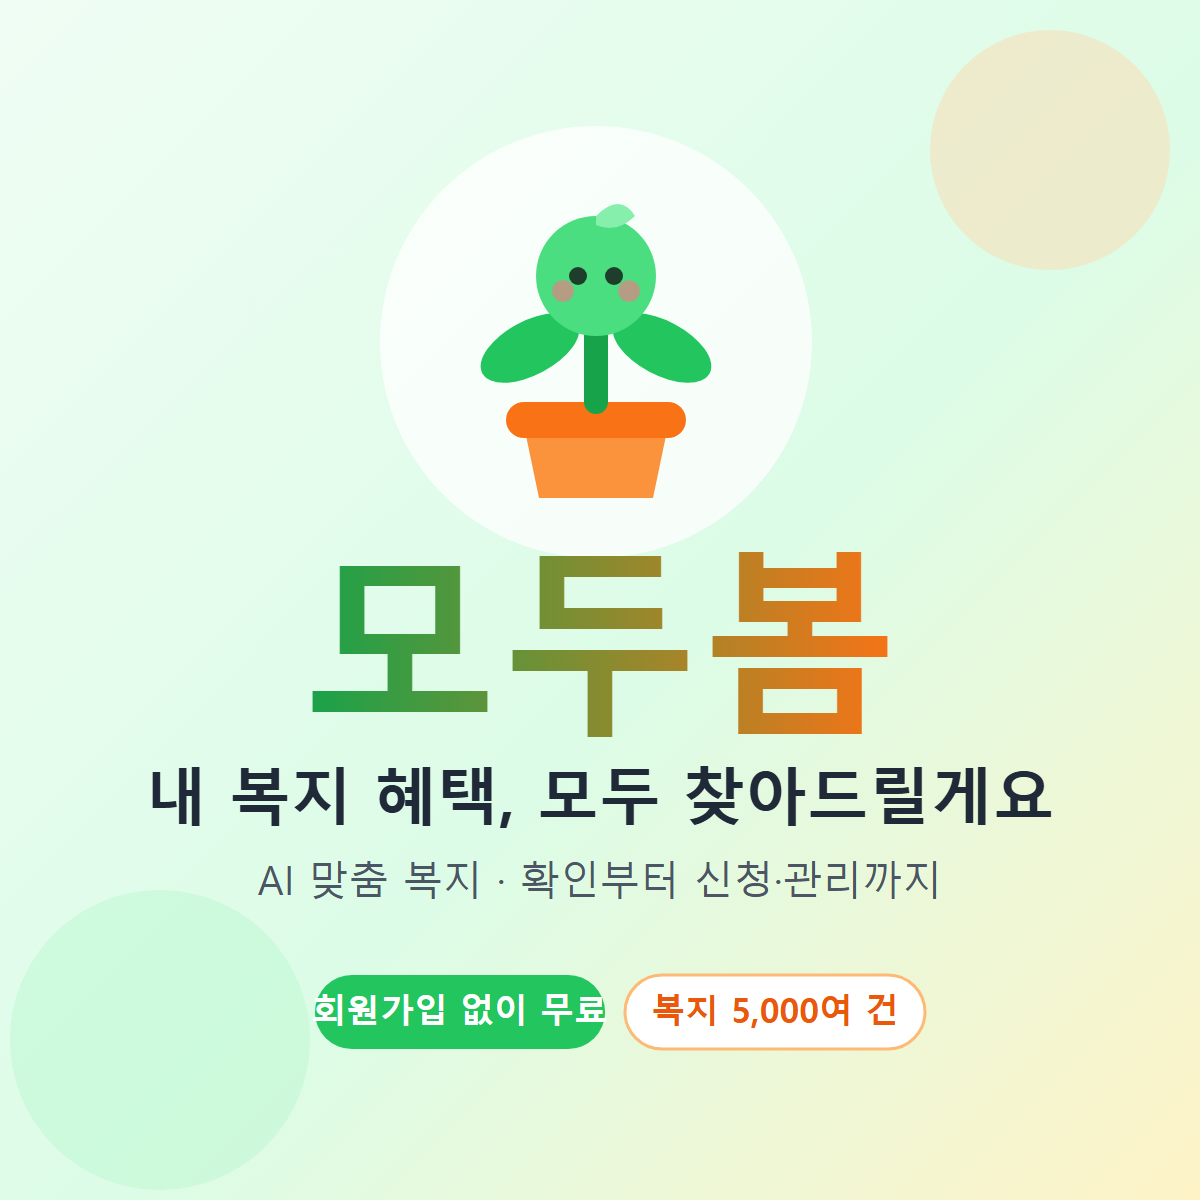
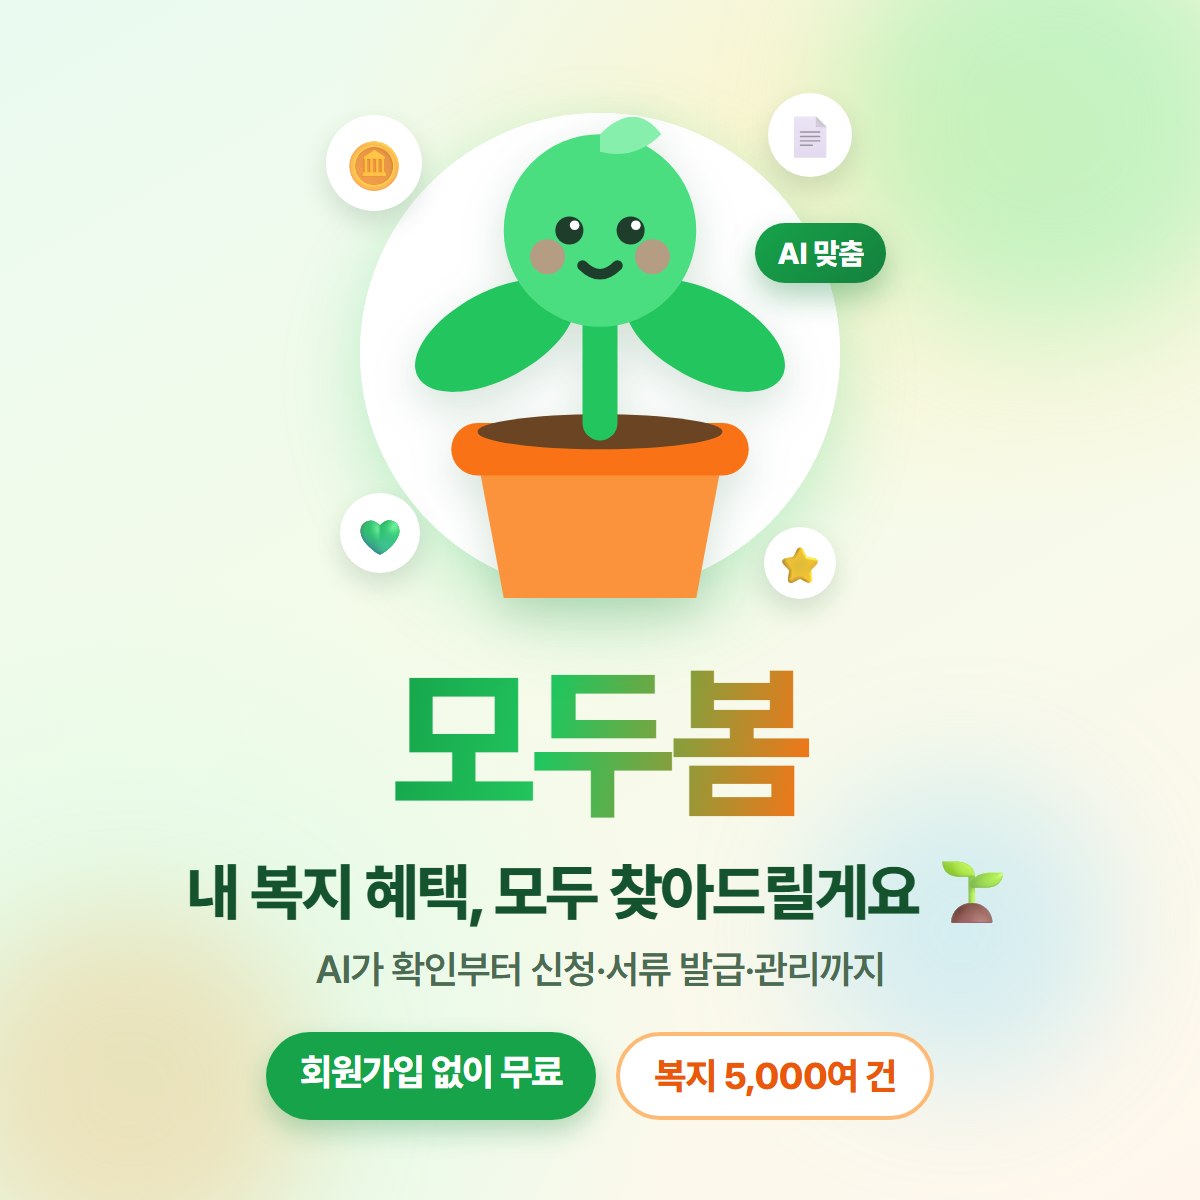
feat(frontend): 공유 배너 새싹이 리뉴얼 + 챗 에이전트 생동감
- og.png(2D 공유 배너)를 앱의 정식 새싹이(SproutLogo) 캐릭터로 재제작: 크고 또렷한
  웃는 새싹이 + 떠다니는 혜택 아이콘(지원금·서류·💚·⭐) + 'AI 맞춤' 배지로 첫인상 강화.
  재현 소스 scripts/og-banner.html + render-og.py(playwright, 1200×1200) 동봉.
- 챗 새싹이를 살아 반응하게: 평소 숨쉬듯 둥실, AI가 답을 찾는 중엔 고개를 갸웃대며
  💭 + 타이핑 점3개로 '생각하는 중' 표현(작은 챗창에 3D 캔버스 대신 캐릭터 반응으로
  에이전트감 부여). reduced-motion이면 애니메이션 없음(접근성).

diff --git a/frontend/scripts/og-banner.html b/frontend/scripts/og-banner.html
@@ -1,0 +1,100 @@
+<!doctype html>
+<html lang="ko">
+<head>
+<meta charset="utf-8" />
+<style>
+  /* 모두봄 공유 배너(OG) — 앱의 정식 새싹이(SproutLogo) 캐릭터를 크고 생동감 있게.
+     1200×1200. 렌더: frontend/scripts/render-og.py (backend venv playwright) */
+  * { margin: 0; padding: 0; box-sizing: border-box; }
+  html, body { width: 1200px; height: 1200px; overflow: hidden; }
+  body {
+    font-family: 'Pretendard', 'Malgun Gothic', 'Apple SD Gothic Neo', sans-serif;
+    background:
+      radial-gradient(1100px 700px at 78% 12%, #fef3c7 0%, rgba(254,243,199,0) 55%),
+      radial-gradient(900px 800px at 12% 88%, #dcfce7 0%, rgba(220,252,231,0) 60%),
+      linear-gradient(150deg, #eafaf0 0%, #f4fbe9 45%, #fff7ed 100%);
+    position: relative;
+  }
+  /* 부드러운 배경 블롭 */
+  .blob { position: absolute; border-radius: 9999px; filter: blur(60px); }
+  .b1 { width: 420px; height: 420px; background: rgba(134,239,172,.45); top: -90px; right: -60px; }
+  .b2 { width: 360px; height: 360px; background: rgba(253,186,116,.38); bottom: -70px; left: -50px; }
+  .b3 { width: 300px; height: 300px; background: rgba(125,211,252,.30); bottom: 120px; right: 90px; }
+
+  .wrap { position: relative; height: 100%; display: flex; flex-direction: column;
+          align-items: center; justify-content: center; text-align: center; padding: 70px; }
+
+  /* 새싹이 무대 — 흰 원 글로우 위에 캐릭터 + 떠다니는 혜택 아이콘 */
+  .stage { position: relative; width: 560px; height: 560px; margin-top: -8px; }
+  .halo { position: absolute; inset: 40px; border-radius: 9999px; background: #ffffff;
+          box-shadow: 0 30px 80px rgba(34,197,94,.22), inset 0 0 0 10px rgba(255,255,255,.9); }
+  .halo::after { content: ''; position: absolute; inset: -26px; border-radius: 9999px;
+          background: radial-gradient(circle, rgba(134,239,172,.55) 0%, rgba(134,239,172,0) 70%); z-index: -1; }
+  .mascot { position: absolute; inset: 0; width: 100%; height: 100%; }
+  .mascot svg { width: 100%; height: 100%; filter: drop-shadow(0 16px 22px rgba(22,101,52,.18)); }
+
+  /* 떠다니는 혜택 요소 — "AI가 내 복지를 찾아준다" 서사 */
+  .float { position: absolute; display: flex; align-items: center; justify-content: center;
+           border-radius: 9999px; background: #fff; box-shadow: 0 12px 26px rgba(16,64,32,.14); }
+  .f-coin { top: 42px; left: 6px; width: 96px; height: 96px; font-size: 50px; }
+  .f-doc  { top: 20px; right: 28px; width: 84px; height: 84px; font-size: 42px; }
+  .f-heart{ bottom: 60px; left: 20px; width: 80px; height: 80px; font-size: 40px; }
+  .f-star { bottom: 34px; right: 44px; width: 72px; height: 72px; font-size: 36px; }
+  .badge-ai { position: absolute; top: 150px; right: -6px; background: linear-gradient(135deg,#16a34a,#15803d);
+           color: #fff; font-weight: 800; font-size: 30px; padding: 12px 22px; border-radius: 9999px;
+           box-shadow: 0 14px 30px rgba(21,128,61,.35); letter-spacing: -.5px; }
+
+  .brand { margin-top: 26px; font-size: 168px; font-weight: 900; letter-spacing: -6px; line-height: 1;
+           background: linear-gradient(100deg,#16a34a 0%, #22c55e 38%, #f97316 100%);
+           -webkit-background-clip: text; background-clip: text; color: transparent; }
+  .tag { margin-top: 20px; font-size: 62px; font-weight: 800; color: #14532d; letter-spacing: -2px; }
+  .sub { margin-top: 16px; font-size: 39px; font-weight: 600; color: #4b6b52; letter-spacing: -1px; }
+
+  .badges { margin-top: 40px; display: flex; gap: 20px; }
+  .pill { font-size: 37px; font-weight: 800; padding: 18px 34px; border-radius: 9999px; letter-spacing: -1px; }
+  .pill-green { background: #16a34a; color: #fff; box-shadow: 0 12px 26px rgba(21,128,61,.28); }
+  .pill-orange { background: #fff; color: #ea580c; border: 4px solid #fdba74; }
+</style>
+</head>
+<body>
+  <div class="blob b1"></div><div class="blob b2"></div><div class="blob b3"></div>
+  <div class="wrap">
+    <div class="stage">
+      <div class="halo"></div>
+      <div class="mascot">
+        <!-- 앱의 정식 새싹이(SproutLogo, withFace)와 동일한 캐릭터 -->
+        <svg viewBox="0 0 64 64" role="img" aria-label="모두봄 새싹 마스코트" fill="none">
+          <path d="M18 44 H46 L43 60 H21 Z" fill="#fb923c" />
+          <rect x="15" y="40" width="34" height="6" rx="3" fill="#f97316" />
+          <ellipse cx="32" cy="41" rx="14" ry="2" fill="#6b4423" />
+          <rect x="30" y="22" width="4" height="20" rx="2" fill="#22c55e" />
+          <ellipse cx="20" cy="30" rx="10" ry="5" transform="rotate(-28 20 30)" fill="#22c55e" />
+          <ellipse cx="44" cy="30" rx="10" ry="5" transform="rotate(28 44 30)" fill="#22c55e" />
+          <circle cx="32" cy="18" r="11" fill="#4ade80" />
+          <path d="M32 7 q4 -4 7 0 q-3 3 -7 2 Z" fill="#86efac" />
+          <circle cx="28.5" cy="18" r="1.6" fill="#1f3d2b" />
+          <circle cx="35.5" cy="18" r="1.6" fill="#1f3d2b" />
+          <circle cx="29.1" cy="17.4" r="0.55" fill="#ffffff" />
+          <circle cx="36.1" cy="17.4" r="0.55" fill="#ffffff" />
+          <circle cx="26" cy="21" r="2" fill="#fb7185" opacity="0.6" />
+          <circle cx="38" cy="21" r="2" fill="#fb7185" opacity="0.6" />
+          <path d="M30 22 q2 2 4 0" stroke="#1f3d2b" stroke-width="1.2" stroke-linecap="round" />
+        </svg>
+      </div>
+      <div class="float f-coin">🪙</div>
+      <div class="float f-doc">📄</div>
+      <div class="float f-heart">💚</div>
+      <div class="float f-star">⭐</div>
+      <div class="badge-ai">AI 맞춤</div>
+    </div>
+
+    <div class="brand">모두봄</div>
+    <div class="tag">내 복지 혜택, 모두 찾아드릴게요 🌱</div>
+    <div class="sub">AI가 확인부터 신청·서류 발급·관리까지</div>
+    <div class="badges">
+      <span class="pill pill-green">회원가입 없이 무료</span>
+      <span class="pill pill-orange">복지 5,000여 건</span>
+    </div>
+  </div>
+</body>
+</html>

diff --git a/frontend/src/components/ChatWidget.tsx b/frontend/src/components/ChatWidget.tsx
@@ -1,5 +1,5 @@
 import { useEffect, useRef, useState } from 'react'
-import { motion, AnimatePresence } from 'framer-motion'
+import { motion, AnimatePresence, useReducedMotion } from 'framer-motion'
 import { MessageCircleHeart, X, Send, Mic, Compass, Sparkles, ArrowRight, Plus, Check } from 'lucide-react'
 import type { Policy } from '@/data/policies'
 import { useSpeech } from '@/lib/useSpeech'
@@ -16,6 +16,50 @@ interface Msg { role: 'user' | 'bot'; text: string; policies?: Policy[]; cta?: A
 
 const SUGGESTIONS = ['내가 받을 수 있는 거', '기초연금', '출산·육아', '청년', '실업급여']
 
+/**
+ * 살아있는 에이전트 아바타 — 새싹이가 평소엔 숨쉬듯 둥실, AI가 답을 찾는 중(thinking)엔
+ * 고개를 갸웃대며 생각 말풍선(💭)을 띄운다. 실제 3D 캔버스를 작은 챗창에 넣는 대신(성능·데이터),
+ * 캐릭터를 '반응하게' 해 AI 에이전트다운 생동감을 준다. reduced-motion이면 애니메이션 없음(접근성).
+ */
+function AgentAvatar({ thinking, reduce }: { thinking: boolean; reduce: boolean | null }) {
+  const idle = { y: [0, -2.5, 0] }
+  const busy = { rotate: [0, -9, 9, -6, 0], y: [0, -2, 0] }
+  return (
+    <motion.div
+      className="relative h-8 w-8 shrink-0 rounded-full bg-white/20 p-0.5"
+      animate={reduce ? undefined : thinking ? busy : idle}
+      transition={reduce ? undefined : { duration: thinking ? 0.9 : 2.6, repeat: Infinity, ease: 'easeInOut' }}
+      style={{ transformOrigin: '50% 85%' }}
+    >
+      <SproutLogo withFace className="h-full w-full" />
+      {thinking && (
+        <motion.span
+          aria-hidden
+          className="absolute -right-1.5 -top-1.5 text-[11px]"
+          animate={reduce ? undefined : { opacity: [0.3, 1, 0.3], scale: [0.8, 1.15, 0.8] }}
+          transition={reduce ? undefined : { duration: 1, repeat: Infinity, ease: 'easeInOut' }}
+        >💭</motion.span>
+      )}
+    </motion.div>
+  )
+}
+
+/** 새싹이가 답을 찾는 중 — 통통 튀는 점 3개(타이핑 인디케이터). reduced-motion이면 정적. */
+function TypingDots({ reduce }: { reduce: boolean | null }) {
+  return (
+    <span className="ml-1.5 inline-flex items-center gap-1 align-middle" aria-hidden>
+      {[0, 1, 2].map((i) => (
+        <motion.span
+          key={i}
+          className="h-1.5 w-1.5 rounded-full bg-sprout-400"
+          animate={reduce ? undefined : { y: [0, -4, 0], opacity: [0.4, 1, 0.4] }}
+          transition={reduce ? undefined : { duration: 0.9, repeat: Infinity, ease: 'easeInOut', delay: i * 0.15 }}
+        />
+      ))}
+    </span>
+  )
+}
+
 export function ChatWidget() {
   const [open, setOpen] = useState(false)
   const [msgs, setMsgs] = useState<Msg[]>([])
@@ -25,6 +69,8 @@ export function ChatWidget() {
   const [multiSel, setMultiSel] = useState<{ v: string; l: string }[]>([])
   const [guideName, setGuideName] = useState('') // 상담 중 성함(선택) — 실명이면 인증 자동입력에 활용
   const [guideAge, setGuideAge] = useState('')   // 정확한 나이 직접 입력(연령대 대표값 대신)
+  const reduce = useReducedMotion()
+  const thinking = msgs.some((m) => m.pending) // AI가 답을 찾는 중 — 아바타·타이핑 모션 트리거
   const setView = useAppStore((s) => s.setView)
   const view = useAppStore((s) => s.view)
   const profile = useAppStore((s) => s.profile)
@@ -233,10 +279,10 @@ export function ChatWidget() {
             role="dialog" aria-label="복지 도우미 챗봇"
           >
             <div className="flex items-center gap-2.5 bg-gradient-to-r from-sprout-500 to-emerald-500 px-4 py-3 text-white">
-              <SproutLogo withFace className="h-8 w-8 bg-white/20 rounded-full p-0.5" />
+              <AgentAvatar thinking={thinking} reduce={reduce} />
               <div>
                 <p className="font-bold leading-tight">새싹이 · 복지 에이전트</p>
-                <p className="text-[11px] text-white/80">{aiChat ? '물어보면 바로 찾아드려요 · 내 정보는 기기 안에서' : profile ? `${profile.name || '회원'}님 맞춤 · 담기까지 도와드려요` : '무엇이든 물어보세요'}</p>
+                <p className="text-[11px] text-white/80">{thinking ? '생각하는 중이에요…' : aiChat ? '물어보면 바로 찾아드려요 · 내 정보는 기기 안에서' : profile ? `${profile.name || '회원'}님 맞춤 · 담기까지 도와드려요` : '무엇이든 물어보세요'}</p>
               </div>
             </div>
 
@@ -244,7 +290,7 @@ export function ChatWidget() {
               {msgs.map((m, i) => (
                 <div key={i} className={m.role === 'user' ? 'flex justify-end' : 'flex flex-col items-start gap-1.5'}>
                   <div className={`max-w-[85%] rounded-2xl px-3.5 py-2.5 text-sm whitespace-pre-line leading-relaxed ${m.role === 'user' ? 'bg-sprout-700 text-white rounded-br-sm self-end' : 'bg-white border border-sprout-100 rounded-bl-sm'}`}>
-                    {m.text}
+                    {m.text}{m.pending && <TypingDots reduce={reduce} />}
                   </div>
                   {m.role === 'bot' && m.ai && (
                     <span className="text-[10px] text-sky2-700 font-semibold -mt-0.5">🌱 복지를 찾아 정리한 답변이에요</span>

diff --git a/frontend/scripts/render-og.py b/frontend/scripts/render-og.py
@@ -1,0 +1,31 @@
+# -*- coding: utf-8 -*-
+"""og-banner.html → public/og.png (1200x1200) 렌더. backend venv의 playwright 사용.
+사용: (backend venv 활성 후) python frontend/scripts/render-og.py"""
+import pathlib, sys
+try:
+    sys.stdout.reconfigure(encoding="utf-8")
+except Exception:
+    pass
+
+HERE = pathlib.Path(__file__).resolve().parent
+SRC = HERE / "og-banner.html"
+OUT = HERE.parent / "public" / "og.png"
+
+def main():
+    from playwright.sync_api import sync_playwright
+    with sync_playwright() as p:
+        browser = p.chromium.launch()
+        page = browser.new_page(viewport={"width": 1200, "height": 1200}, device_scale_factor=1)
+        page.goto(SRC.as_uri())
+        page.wait_for_load_state("networkidle")
+        try:
+            page.evaluate("document.fonts.ready")
+        except Exception:
+            pass
+        page.wait_for_timeout(500)
+        page.screenshot(path=str(OUT), clip={"x": 0, "y": 0, "width": 1200, "height": 1200})
+        browser.close()
+    print(f"저장: {OUT} ({OUT.stat().st_size} bytes)")
+
+if __name__ == "__main__":
+    main()
